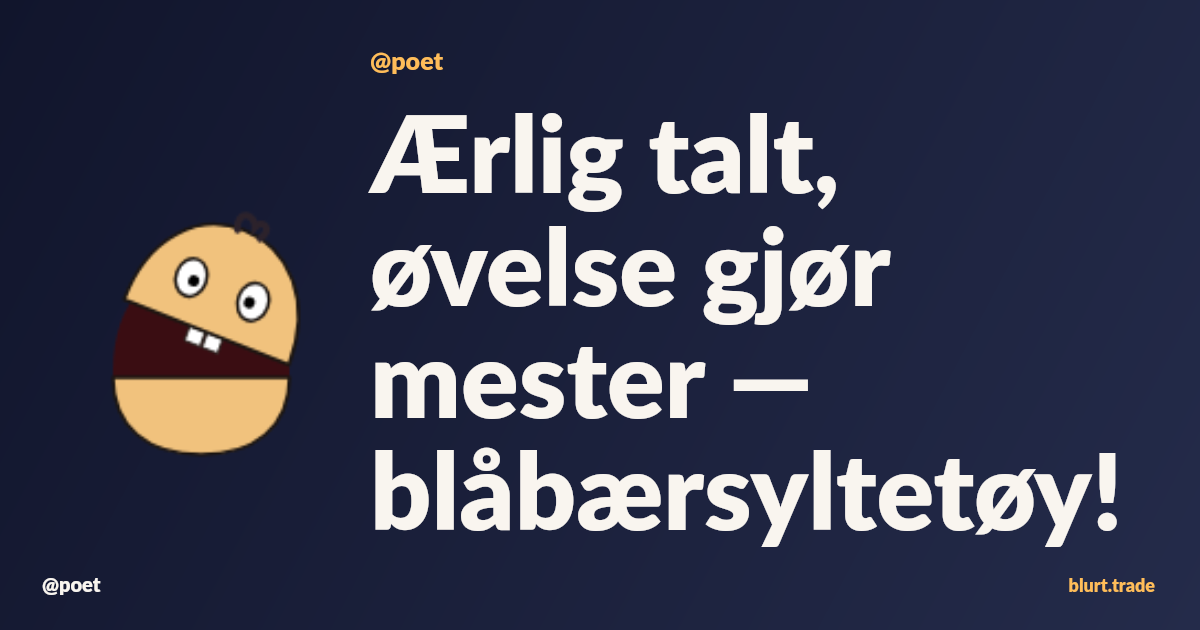
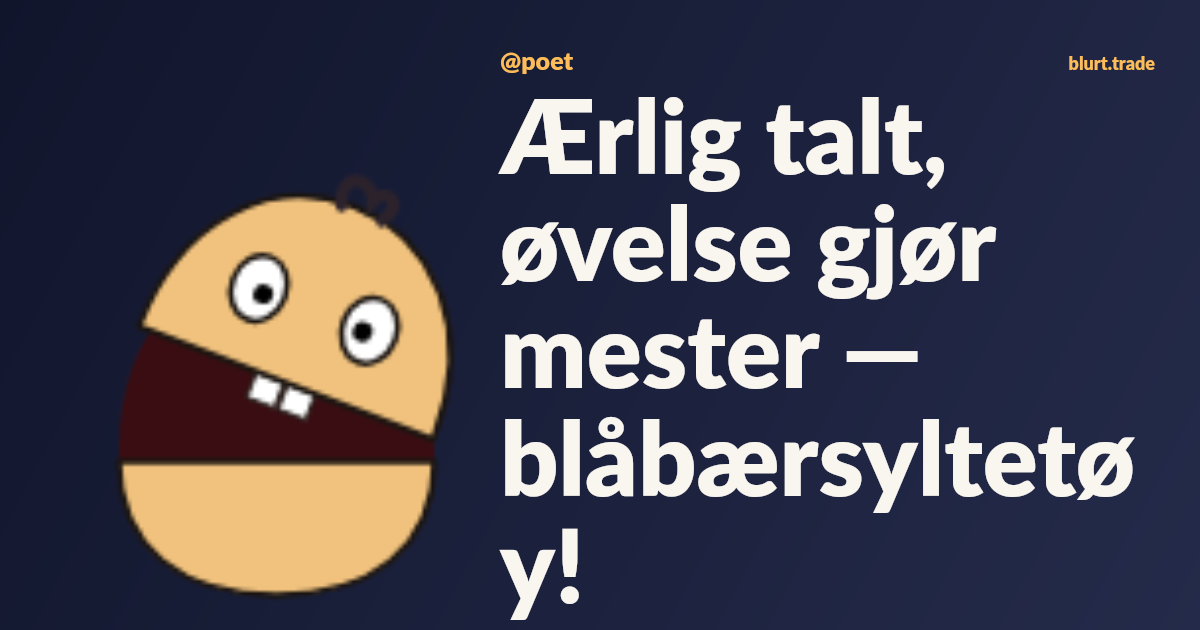
Address OG image review feedback

diff --git a/src/og.ts b/src/og.ts
@@ -13,7 +13,7 @@ export const OG_AVATAR_VERSION = 1
 export const OG_WIDTH = 1200
 export const OG_HEIGHT = 630
 export const OG_MIN_FONT_SIZE = 30
-export const OG_MAX_FONT_SIZE = 140
+export const OG_MAX_FONT_SIZE = 240
 
 export type OgInput = {
   text: string
@@ -29,7 +29,7 @@ GlobalFonts.registerFromPath(join(fontDir, 'Lato-Black.ttf'), 'Lato Black')
 GlobalFonts.registerFromPath(join(fontDir, 'NotoColorEmoji.ttf'), 'Noto Color Emoji')
 const segmenter = new Intl.Segmenter(undefined, { granularity: 'grapheme' })
 const measureContext = createCanvas(1, 1).getContext('2d')
-const textBox = { x: 370, y: 102, width: 770, height: 450 }
+const textBox = { x: 500, y: 85, width: 650, height: 540 }
 const lineHeightFactor = 1.05
 const avatarFallback: Avatar = {
   headWidth: 'regular',
@@ -121,6 +121,23 @@ export function wrapOgText(text: string, fontSize: number, width = textBox.width
   return wrapParagraph(text.replace(/\s+/g, ' ').trim(), fontSize, width)
 }
 
+function wrapPreservedOgText(text: string, fontSize: number, width: number): string[] {
+  const lines: string[] = []
+  let blank = false
+  for (const paragraph of text.replace(/\r\n?/g, '\n').split('\n')) {
+    if (!paragraph.trim()) {
+      if (!blank) {
+        lines.push('')
+      }
+      blank = true
+      continue
+    }
+    lines.push(...wrapParagraph(paragraph, fontSize, width))
+    blank = false
+  }
+  return lines
+}
+
 export function measureOgText(text: string, fontSize: number): number {
   return measureText(text, fontSize)
 }
@@ -129,29 +146,34 @@ export function fitOgText(
   text: string,
   { width = textBox.width, height = textBox.height } = {},
 ): TextLayout {
-  const fits = (fontSize: number) => {
-    const lines = wrapOgText(text, fontSize, width)
-    return {
-      fontSize,
-      lines,
-      width,
-      height: lines.length * fontSize * lineHeightFactor,
+  const fit = (wrap: (text: string, fontSize: number, width: number) => string[]) => {
+    const fits = (fontSize: number) => {
+      const lines = wrap(text, fontSize, width)
+      return {
+        fontSize,
+        lines,
+        width,
+        height: lines.length * fontSize * lineHeightFactor,
+      }
     }
-  }
-  let low = OG_MIN_FONT_SIZE
-  let high = OG_MAX_FONT_SIZE
-  let best = fits(low)
-  while (low <= high) {
-    const middle = Math.floor((low + high) / 2)
-    const candidate = fits(middle)
-    if (candidate.height <= height) {
-      best = candidate
-      low = middle + 1
-    } else {
-      high = middle - 1
+    let low = OG_MIN_FONT_SIZE
+    let high = OG_MAX_FONT_SIZE
+    let best = fits(low)
+    while (low <= high) {
+      const middle = Math.floor((low + high) / 2)
+      const candidate = fits(middle)
+      if (candidate.height <= height) {
+        best = candidate
+        low = middle + 1
+      } else {
+        high = middle - 1
+      }
     }
+    return best
   }
-  return best
+  const preserved = fit(wrapPreservedOgText)
+  const collapsed = fit((value, fontSize, textWidth) => wrapOgText(value, fontSize, textWidth))
+  return collapsed.fontSize > preserved.fontSize * 1.25 ? collapsed : preserved
 }
 
 function escapeHtml(value: string): string {
@@ -196,12 +218,18 @@ async function canvasFor(input: OgInput, debug = false): Promise<Buffer> {
     context.textAlign = 'left'
     context.fillStyle = '#ffbd59'
     context.fillText(`@${input.username}`, textBox.x, 70, textBox.width)
+    context.font = '900 18px "Lato Black"'
+    context.textAlign = 'right'
+    context.fillStyle = '#ffbd59'
+    context.fillText('blurt.trade', 1155, 70)
   }
-  context.drawImage(face, 38, 166, 300, 300)
+  context.drawImage(face, -15, 95, 536, 520)
   context.font = `900 ${font.fontSize}px "Lato Black", "Noto Color Emoji"`
   context.textAlign = 'left'
   context.fillStyle = '#f9f5ef'
-  const firstBaseline = special ? 146 : textBox.y + font.fontSize * 0.85
+  const firstBaseline = special
+    ? 146
+    : textBox.y + (textBox.height - font.height) / 2 + font.fontSize * 0.85
   if (!(special && input.text === 'BLURT')) {
     font.lines.forEach((line, index) => {
       context.fillText(
@@ -212,13 +240,6 @@ async function canvasFor(input: OgInput, debug = false): Promise<Buffer> {
       )
     })
   }
-  context.font = '900 20px "Lato Black"'
-  context.textAlign = 'left'
-  context.fillText(`@${input.username}`, 42, 592, 600)
-  context.font = '900 18px "Lato Black"'
-  context.textAlign = 'right'
-  context.fillStyle = '#ffbd59'
-  context.fillText('blurt.trade', 1155, 592)
   if (debug) {
     context.strokeStyle = '#00eaff'
     context.lineWidth = 2

diff --git a/test/og-unit.test.ts b/test/og-unit.test.ts
@@ -7,6 +7,7 @@ import { blurtMaxLength } from '../src/limits.ts'
 import {
   OG_AVATAR_VERSION,
   OG_HEIGHT,
+  OG_MAX_FONT_SIZE,
   OG_MIN_FONT_SIZE,
   OG_WIDTH,
   cachedOgPng,
@@ -39,14 +40,22 @@ test('the text fit grows for short text and fits maximum-length text at the floo
   const emoji = fitOgText('😀'.repeat(blurtMaxLength))
   assert.ok(short.fontSize > long.fontSize)
   assert.ok(long.fontSize >= OG_MIN_FONT_SIZE)
-  assert.ok(long.height <= 450)
+  assert.ok(long.height <= 540)
   assert.ok(emoji.fontSize >= OG_MIN_FONT_SIZE)
-  assert.ok(emoji.height <= 450)
+  assert.ok(emoji.height <= 540)
   assert.ok(
     long.lines.every((line) => measureOgText(line, long.fontSize) <= long.width),
     'no wrapped line is wider than the text box',
   )
   assert.ok(wrapOgText('line one\n\nline two', short.fontSize).join(' ').includes('line two'))
+})
+
+test('text keeps useful line breaks and collapses sparse single-character lines', () => {
+  assert.equal(OG_MAX_FONT_SIZE, 240)
+  assert.equal(fitOgText('Hey').fontSize, OG_MAX_FONT_SIZE)
+  assert.deepEqual(fitOgText('ja\nnei').lines, ['ja', 'nei'])
+  const sparse = fitOgText(Array(32).fill('x').join('\n'))
+  assert.ok(sparse.lines.length < 32)
 })
 
 test('the image hash changes with every image input and is otherwise stable', () => {

diff --git a/test/og.test.ts b/test/og.test.ts
@@ -86,6 +86,9 @@ test('crawler requests receive exact metadata and an immutable PNG, then deleted
   assert.doesNotMatch(deleted.body, /say &lt;script>|hello/)
   assert.match(deleted.body, /og:image" content="https:\/\/blurt\.trade\/static\/og-image\.png"/)
   assert.equal((await request('GET', imagePath, '', headers)).statusCode, 404)
-  assert.equal((await request('GET', `/og/${id}-${'0'.repeat(64)}.png`)).statusCode, 404)
+  const staleImage = await request('GET', `/og/${id}-${'0'.repeat(64)}.png`)
+  assert.equal(staleImage.statusCode, 301)
+  assert.equal(staleImage.location, imagePath)
+  assert.equal((await request('GET', '/og/not-an-image.png')).statusCode, 404)
   assert.equal((await request('GET', `/og/999999999-${'a'.repeat(64)}.png`)).statusCode, 404)
 })

diff --git a/src/routes/og.ts b/src/routes/og.ts
@@ -59,7 +59,7 @@ ogRouter.get('/og/:filename', async (request, response) => {
   }
   const hash = ogHash(input)
   if (hash !== match[2]) {
-    notFound(response)
+    response.redirect(301, `/og/${id}-${hash}.png`)
     return
   }
   const debug = request.query.debug === '1' && (await debugAllowed(request))
